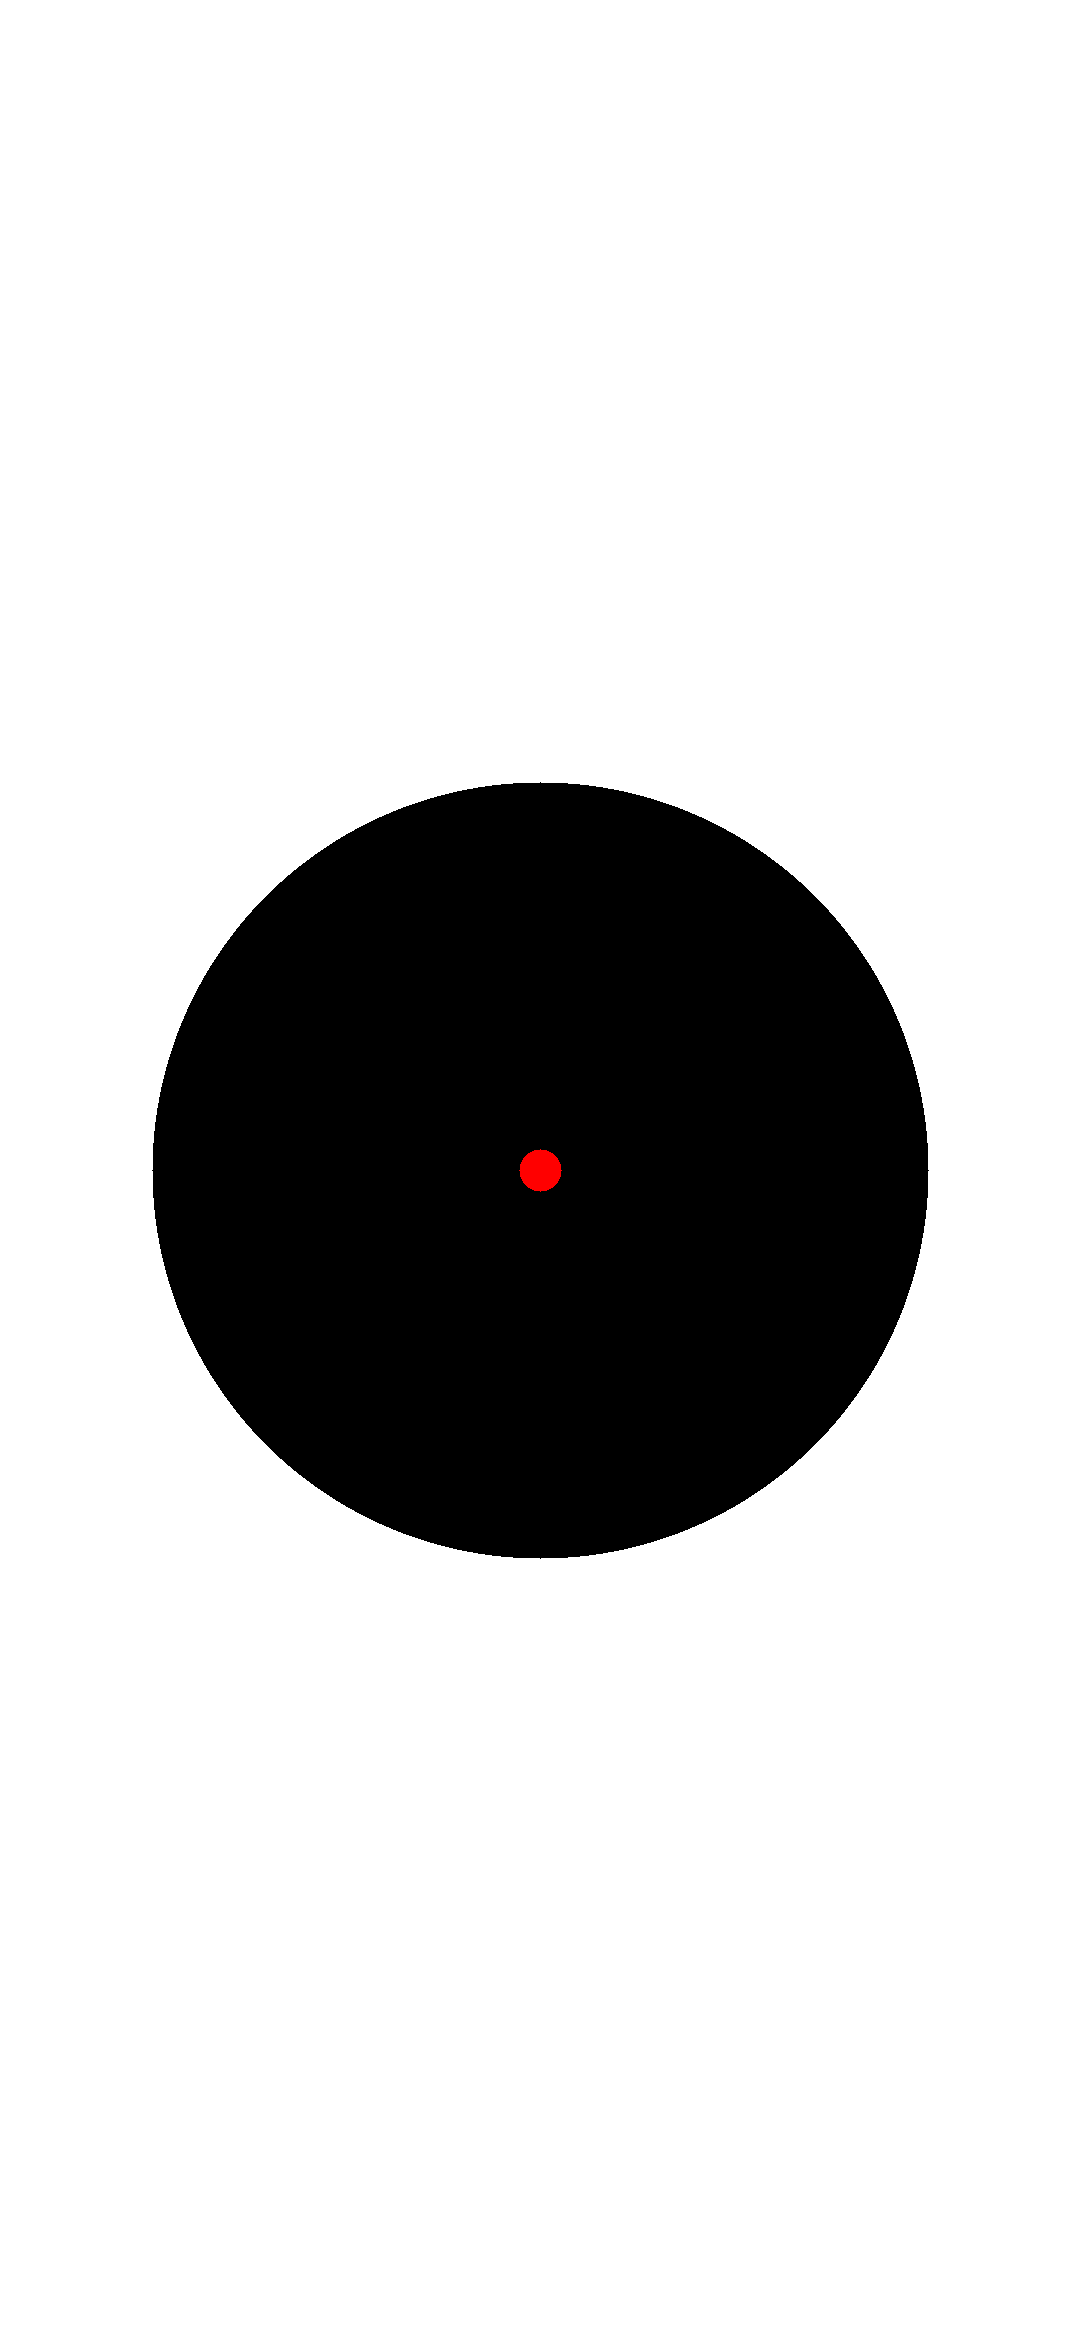
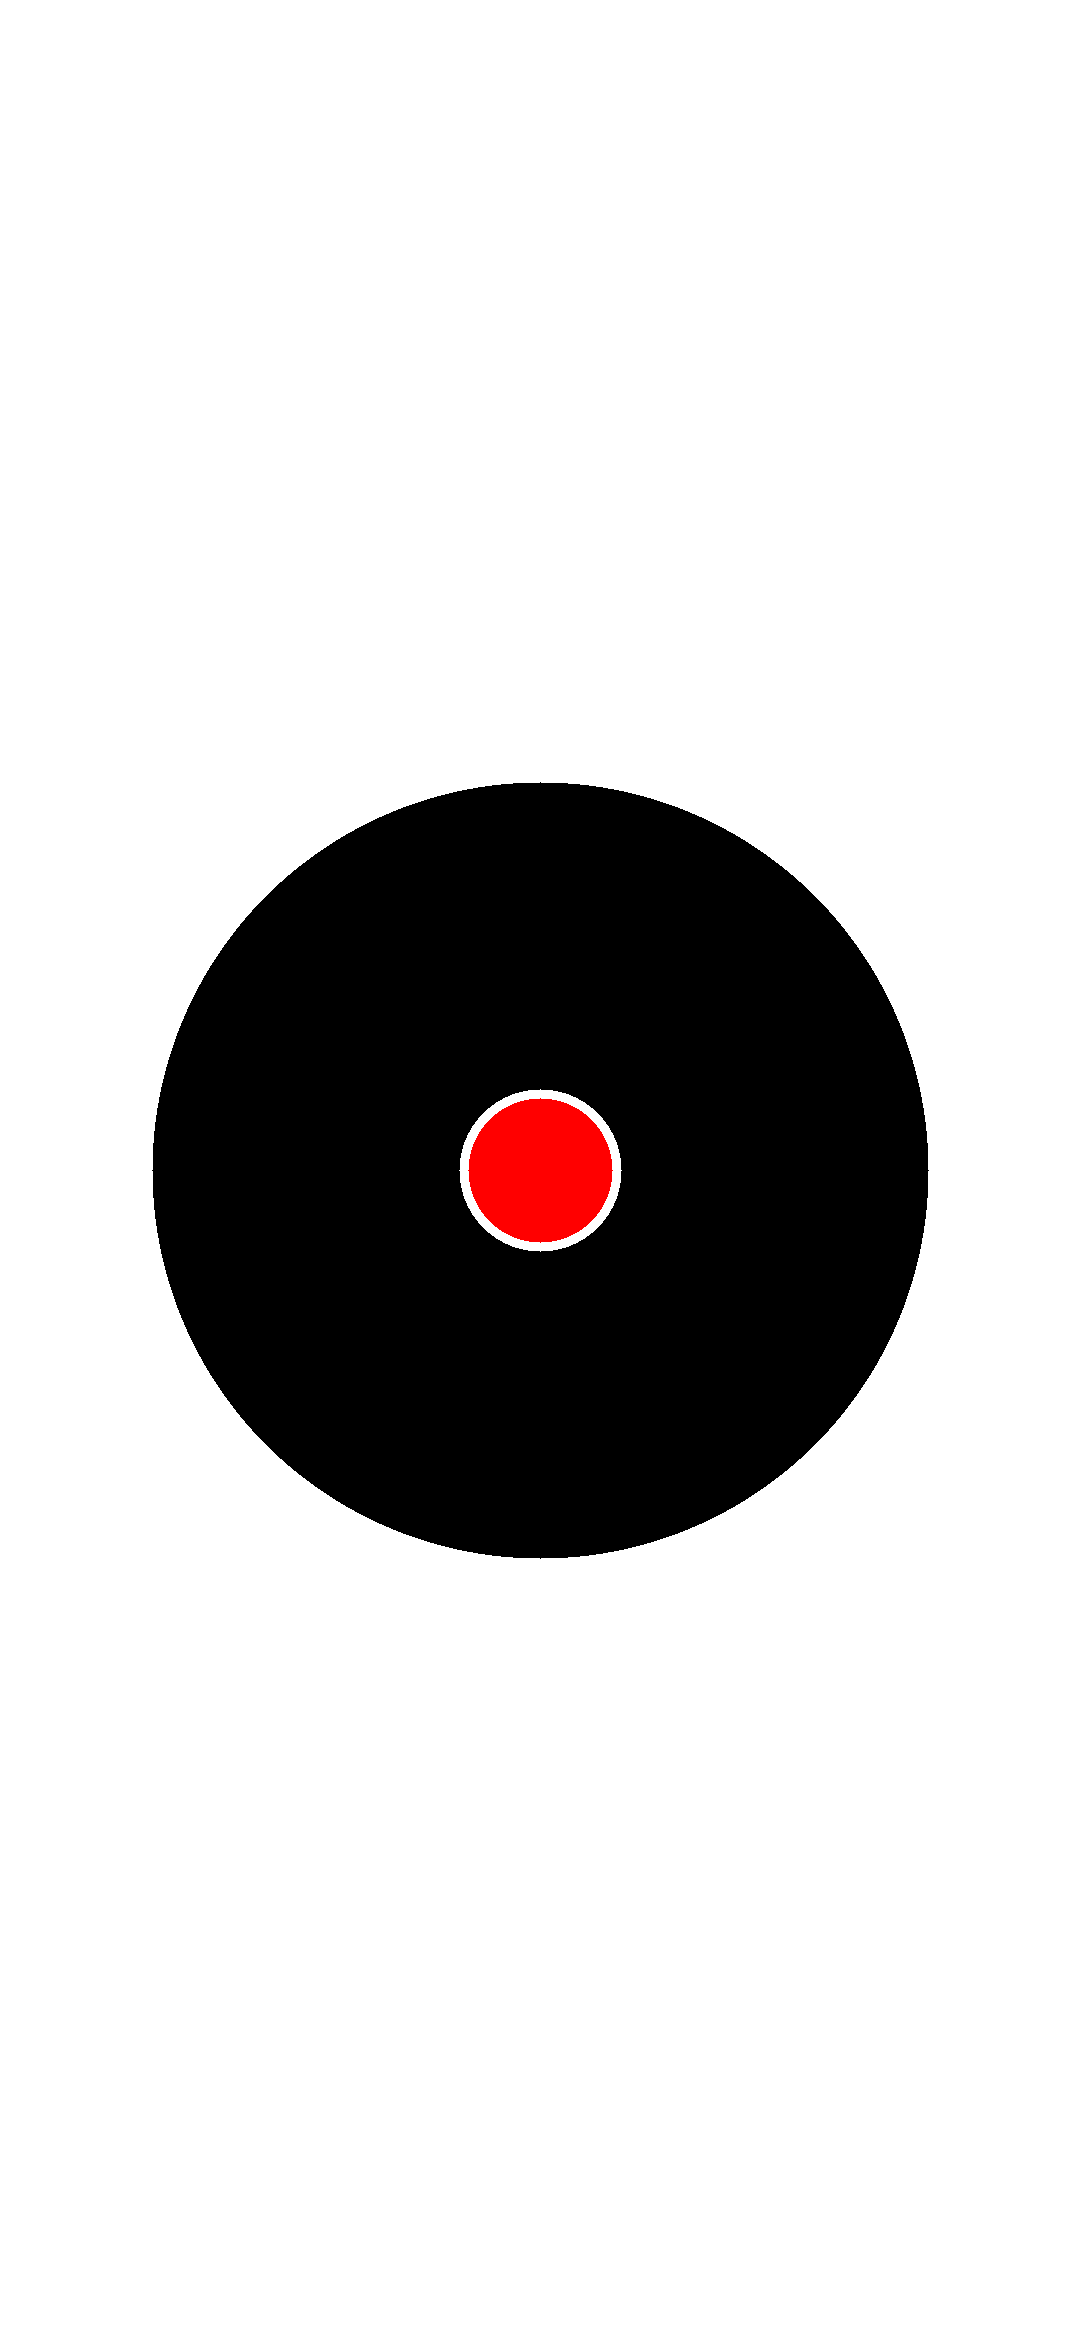
Bigger fixation dot (white-ringed) on the calibration targets; eye box for the new camera module

Changed region(s): [[0.4278, 0.4679, 0.5806, 0.5615]]

diff --git a/gaze/target.py b/gaze/target.py
@@ -85,7 +85,9 @@ def target_disc(size: int) -> np.ndarray:
     img = np.full((size, size, 3), 255, np.uint8)
     c = size // 2
     cv2.circle(img, (c, c), int(size * 0.45), (0, 0, 0), -1)
-    cv2.circle(img, (c, c), max(3, size // 40), (0, 0, 255), -1)
+    dot = max(3, size // 12)  # big enough to fixate on comfortably from seated distance
+    cv2.circle(img, (c, c), dot + max(2, size // 90), (255, 255, 255), -1)  # thin white ring: stands out on black
+    cv2.circle(img, (c, c), dot, (0, 0, 255), -1)
     return img
 
 
